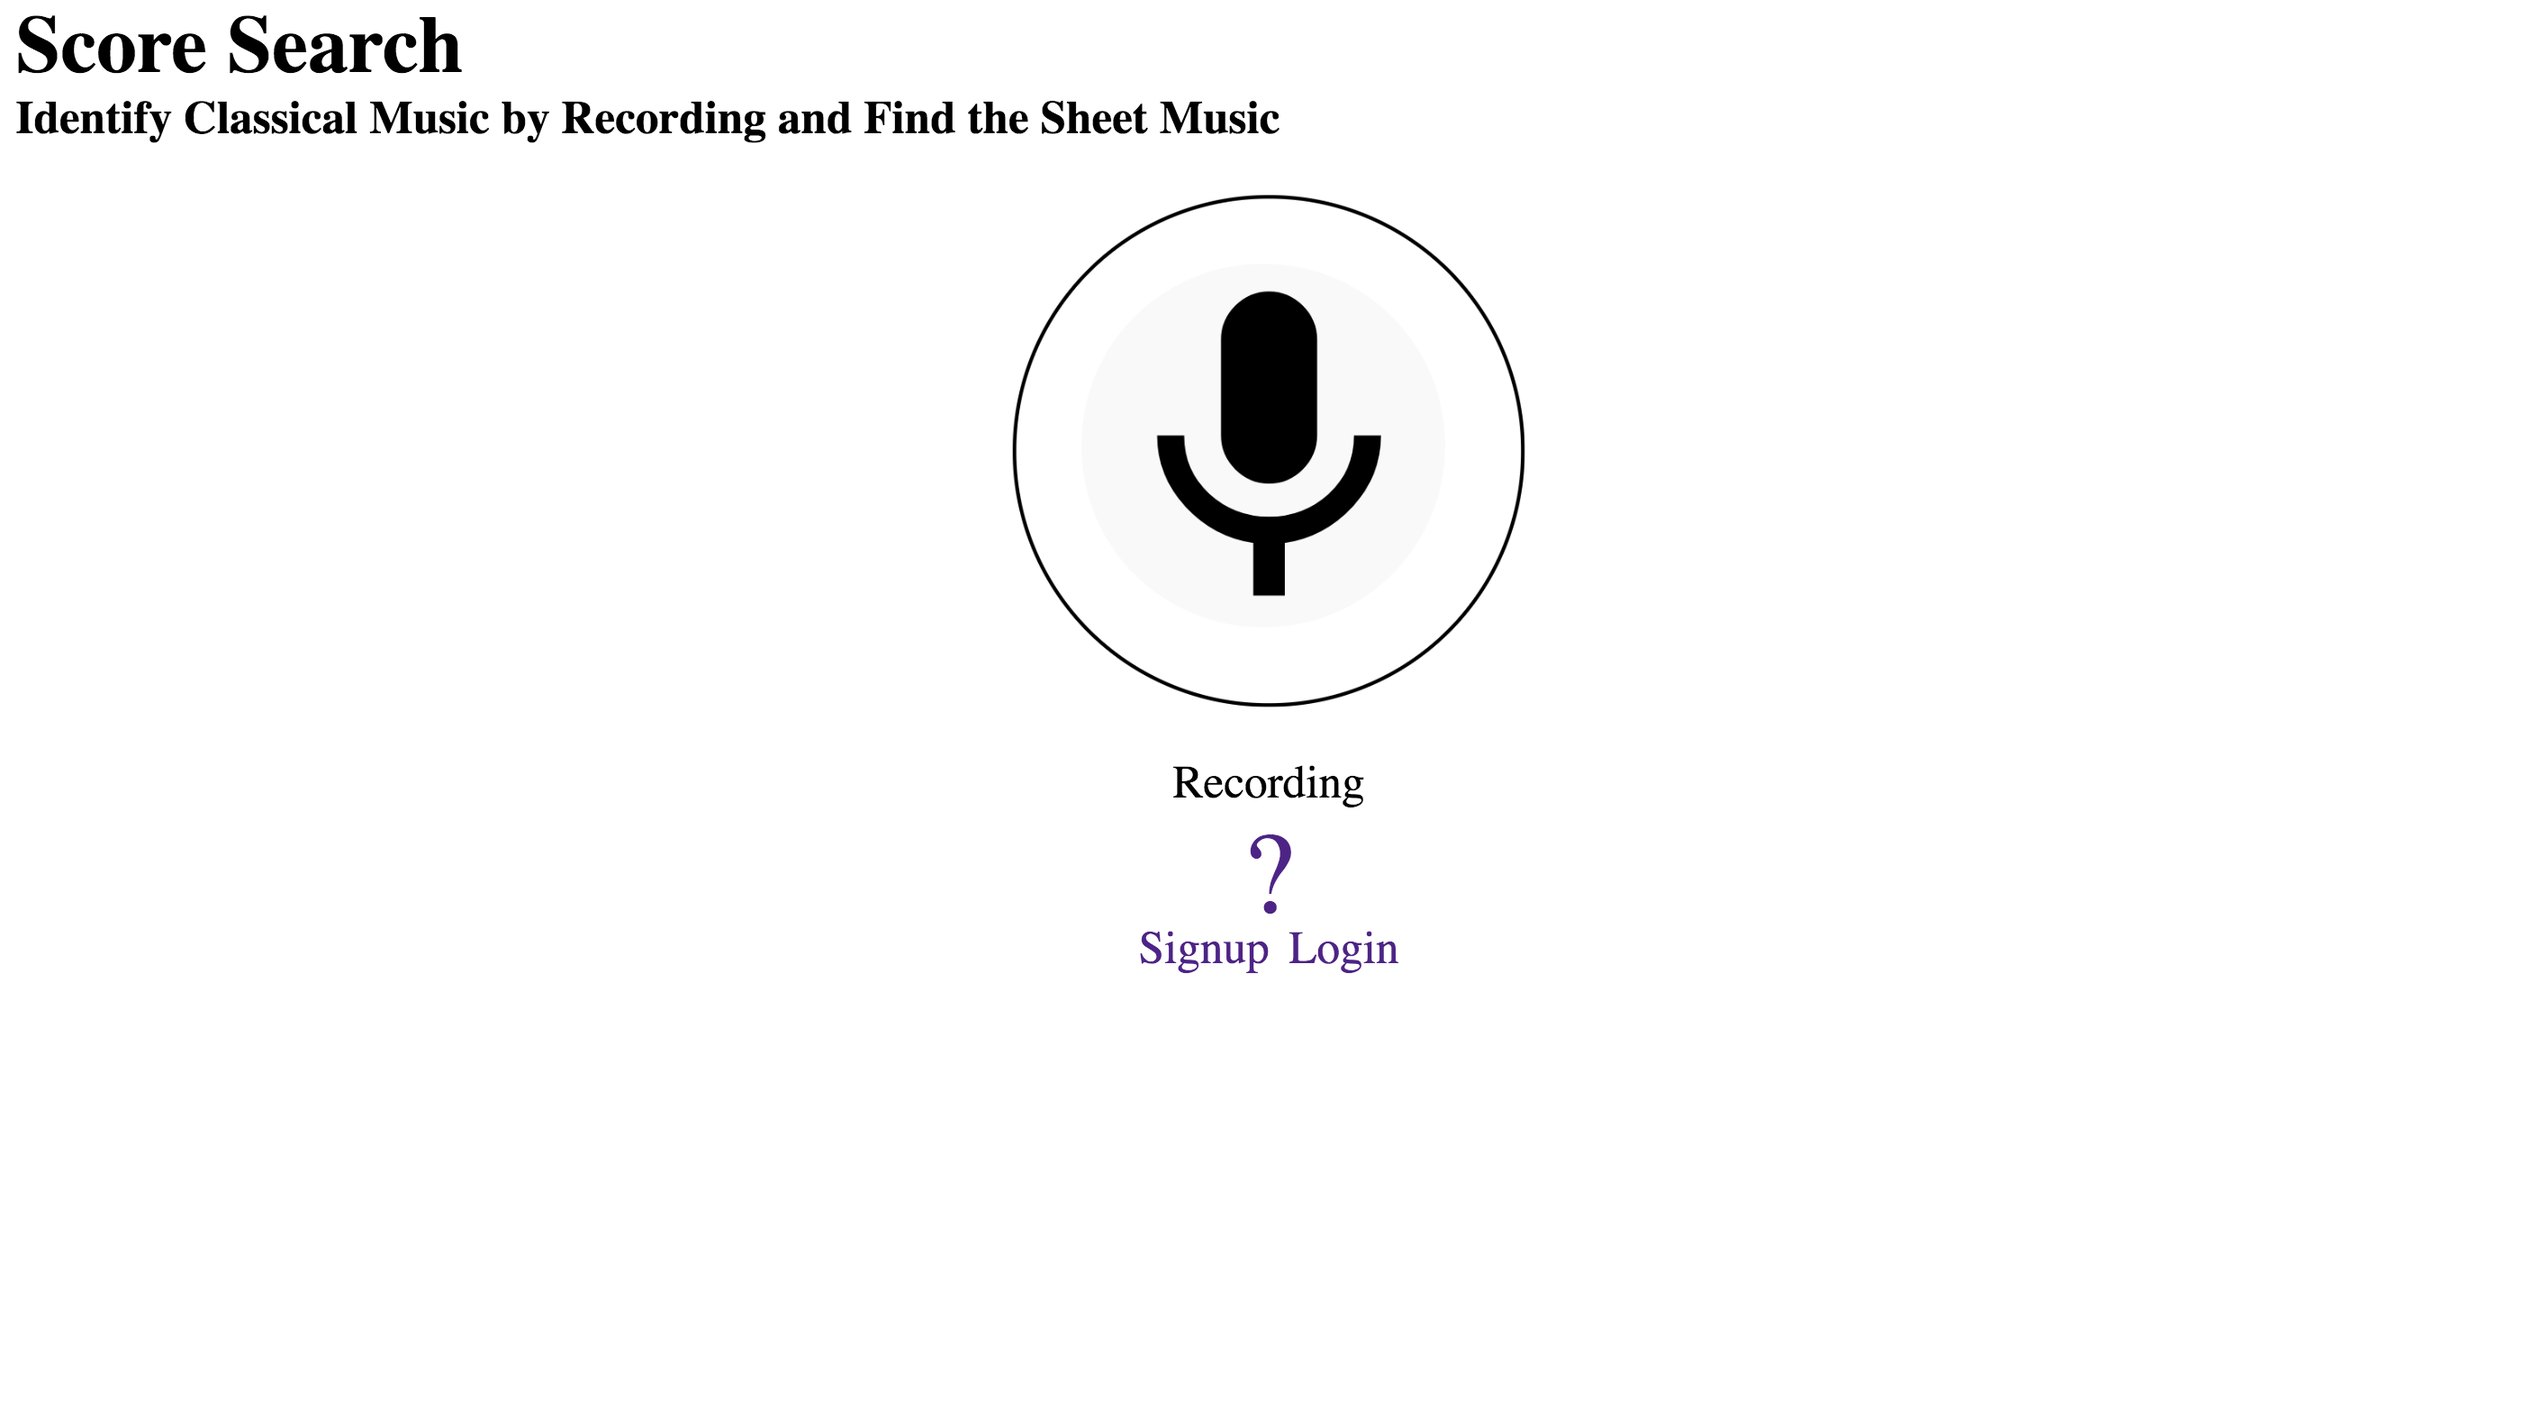
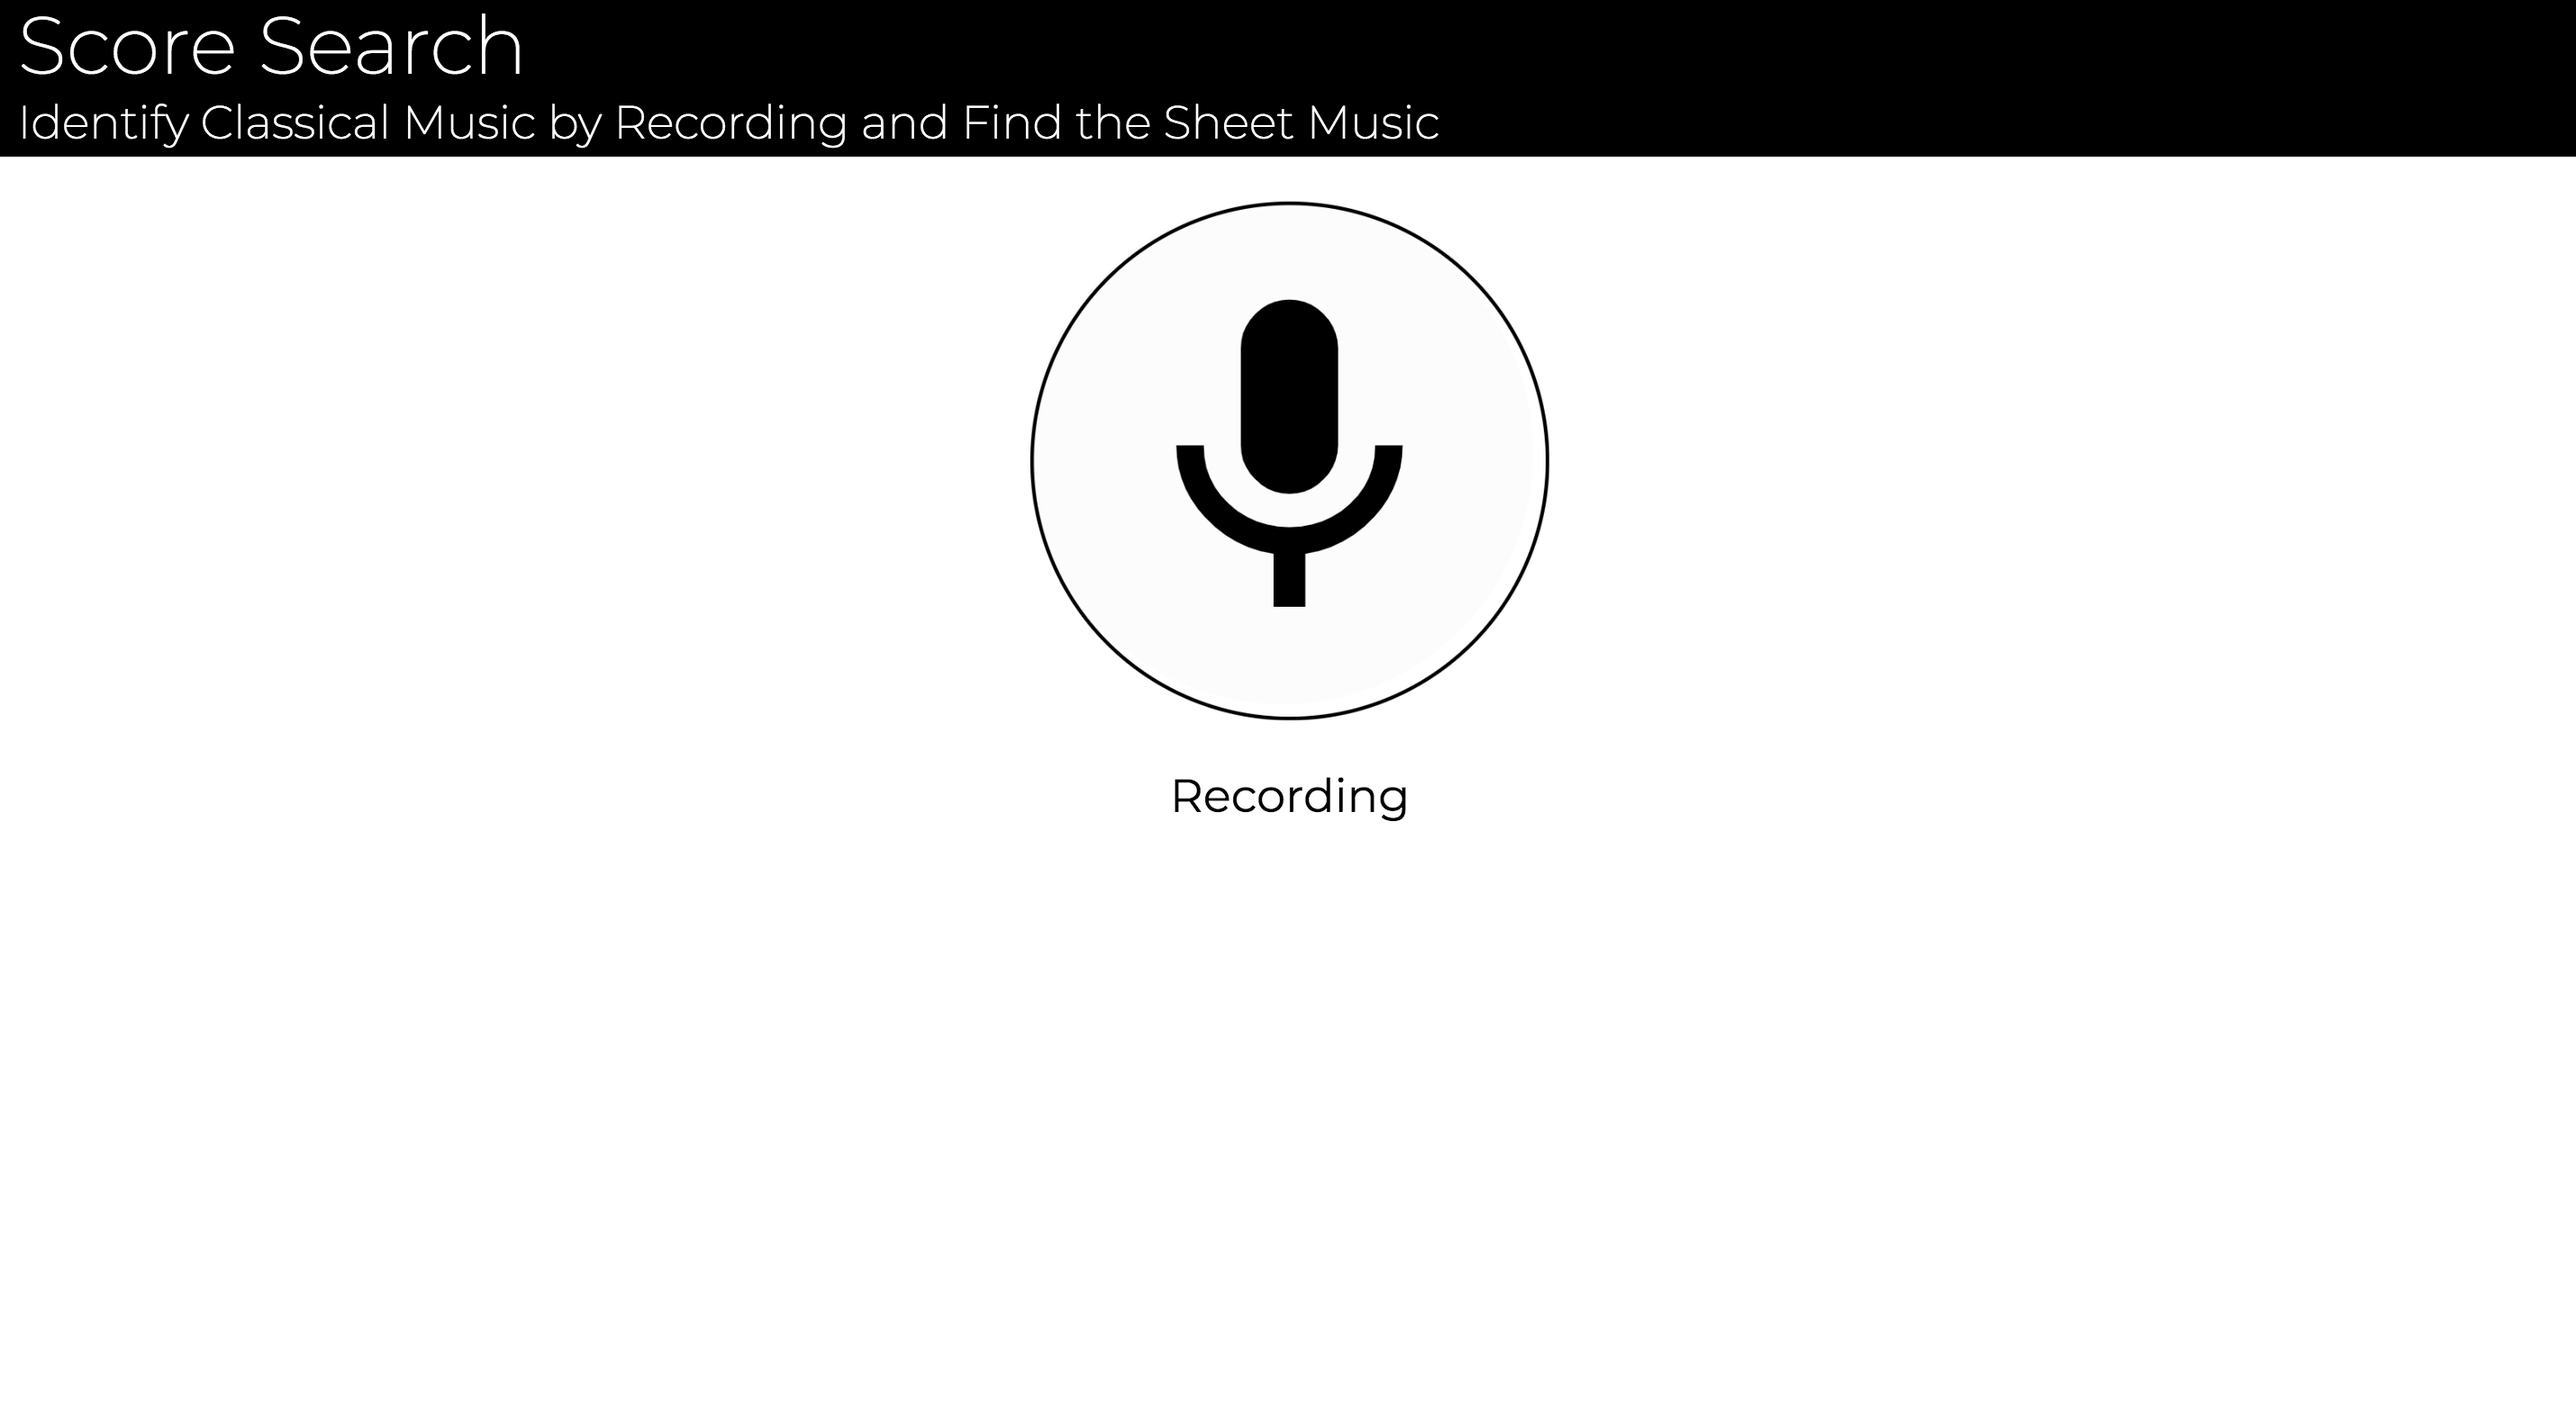
tweak minor styles, update screenshots

diff --git a/public/index.css b/public/index.css
@@ -104,8 +104,7 @@
 }
 
 /*general stylings*/
-@import url('https://fonts.googleapis.com/css?family=Libre+Baskerville');
-@import url('https://fonts.googleapis.com/css?family=Montserrat:100,200,400');
+@import url('https://fonts.googleapis.com/css?family=Montserrat:200,400');
 
 body {
     background: rgb(255, 255, 255);
